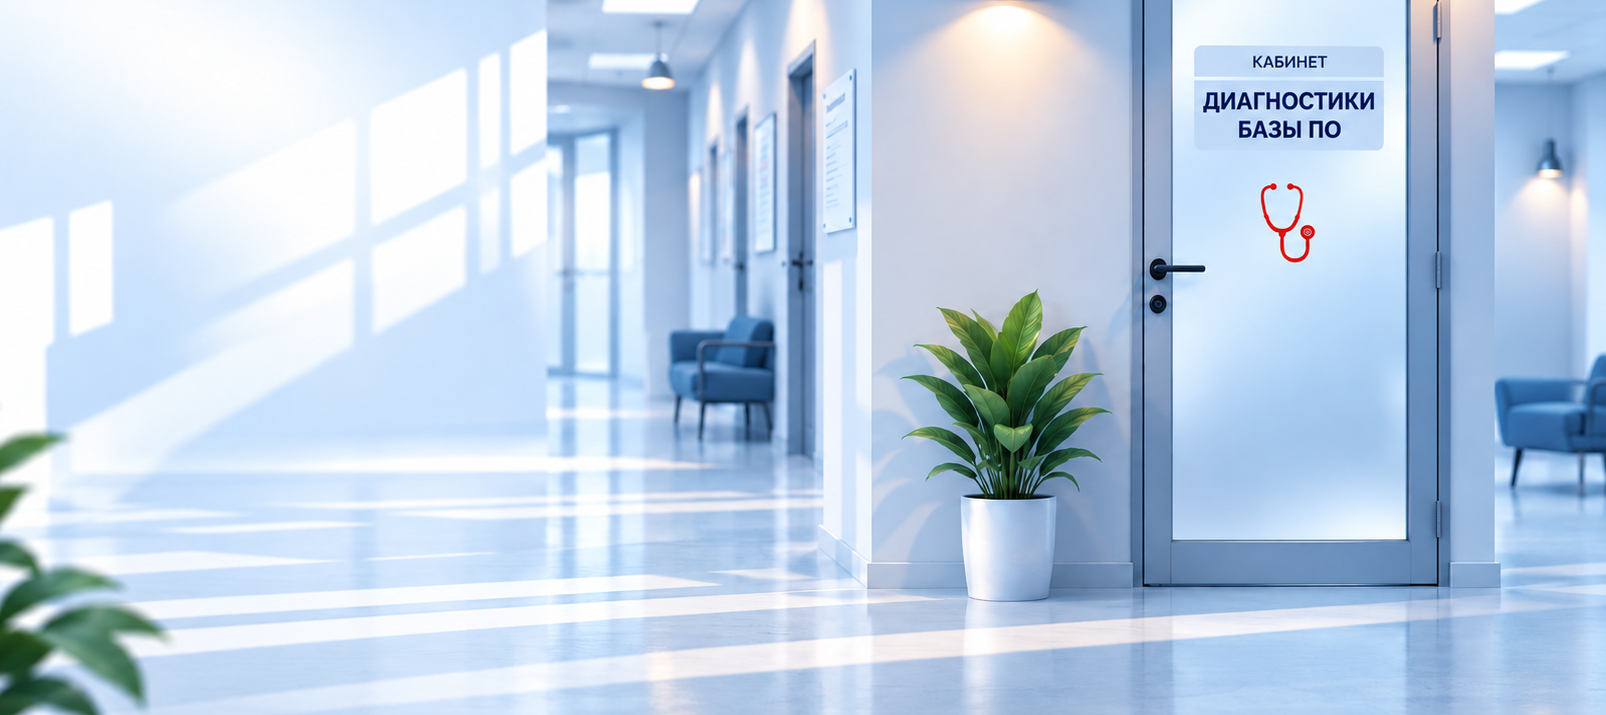
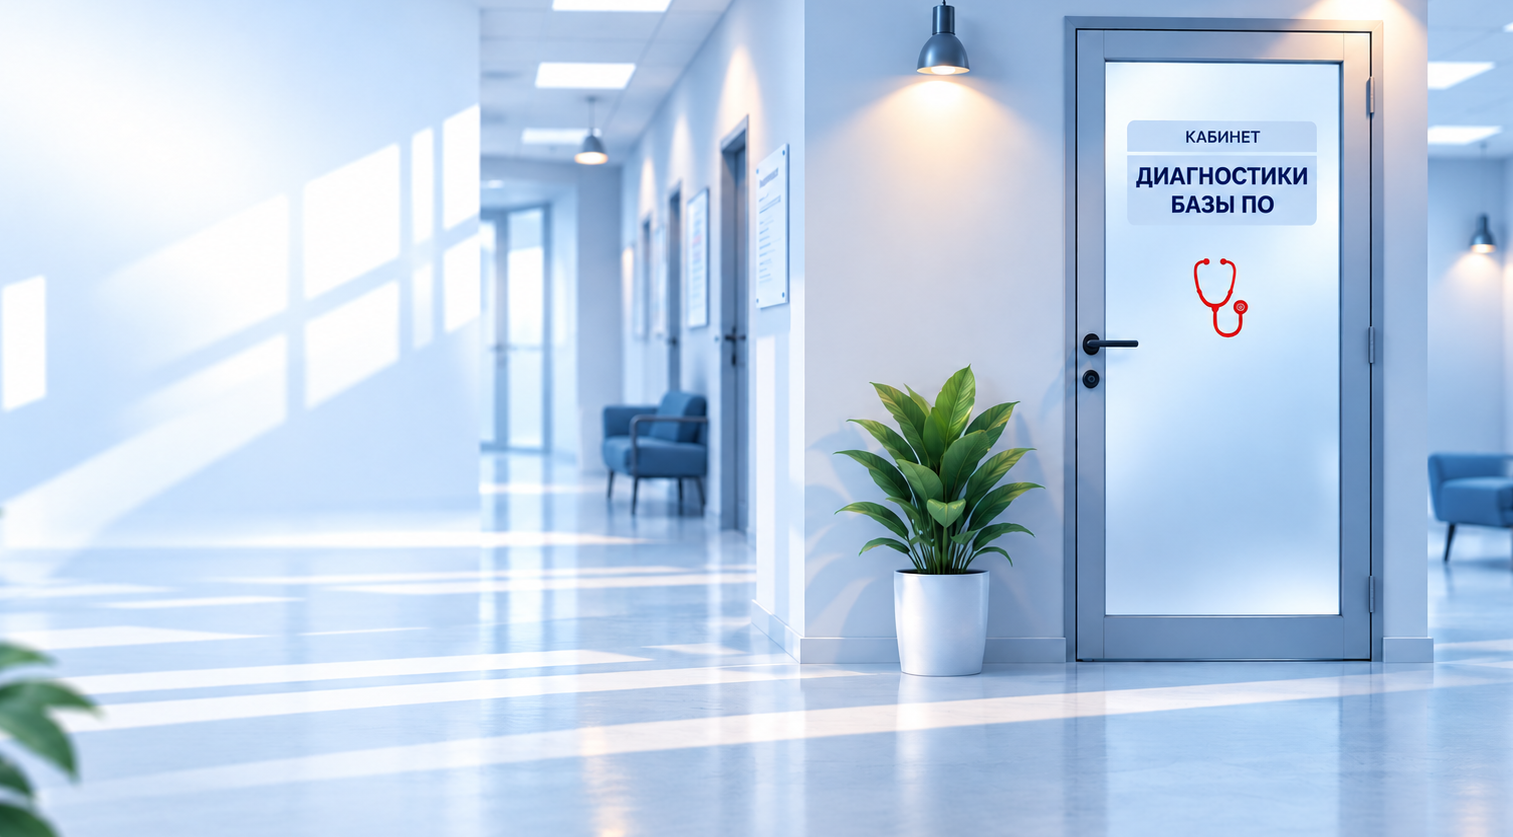
Кабинет: обрезка героя — дверь целиком в кадре

diff --git a/kabinet-diagnostiki/index.html b/kabinet-diagnostiki/index.html
@@ -7,12 +7,12 @@
   <title>Кабинет диагностики — Клиника чистых данных | ИТМен</title>
   <meta name="description" content="Бесплатный кабинет диагностики базы ПО: загрузите выгрузку, получите индекс чистоты, карту симптомов и сверку с эталонным каталогом. Данные не покидают ваш компьютер.">
   <link rel="icon" href="assets/logo.svg" type="image/svg+xml">
-  <link rel="stylesheet" href="styles.css?v=17">
+  <link rel="stylesheet" href="styles.css?v=18">
 </head>
 <body>
 
 <section class="hero">
-  <img class="hero__bg" src="assets/hero-clinic.png?v=17" alt="" width="1606" height="715" decoding="async" aria-hidden="true">
+  <img class="hero__bg" src="assets/hero-clinic.png?v=18" alt="" width="1513" height="837" decoding="async" aria-hidden="true">
   <div class="hero__veil" aria-hidden="true"></div>
 
   <div class="wrap hero__inner">
